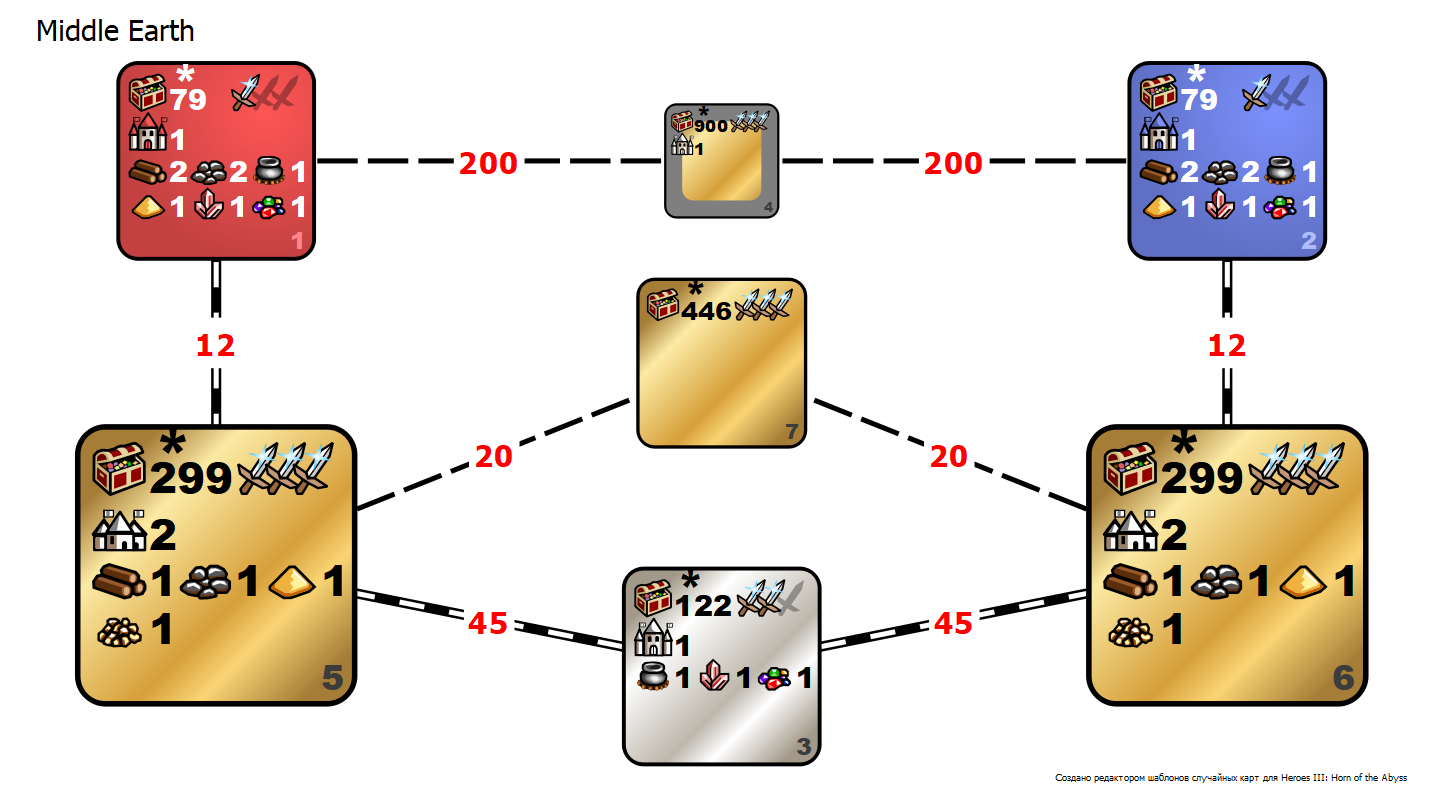
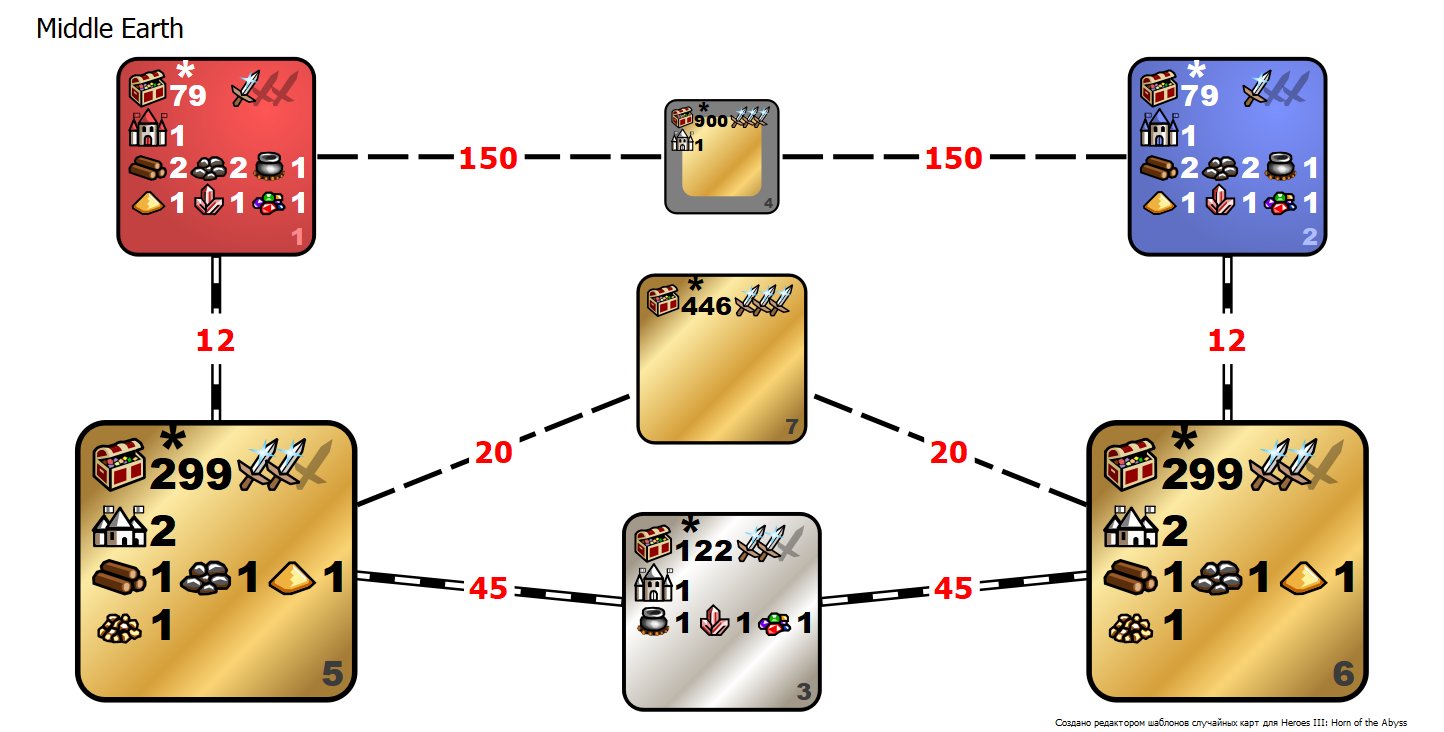
After game changes

Changed region(s): [[0.0312, 0.0, 0.9661, 0.9918], [0.4363, 0.2404, 0.5609, 0.3005], [0.5298, 0.9317, 0.5609, 0.9617]]

diff --git a/README.md b/README.md
@@ -18,8 +18,6 @@ one knows what awaits you on that path, you may need a guide or strong army. Wel
 
 ### Rules
 
-_Rules is under correction now. Coming soon..._
-
 * Initial set up: fast roads, no water, normal monsters, 160%.
 * You have to play with 1 hero which was chosen at the beginning of game. 
 You are defeated if you lose this hero (in any way).  
@@ -51,8 +49,8 @@ and monster buildings of 3 (x4), 4 (x2) and 5 (x1) levels. Seldom you can find h
 objects x3 for each kind of characteristics, and one library.
 * **Player treasure zones (5-red, 6-blue)**. These zones are full of artifacts and boxes of the 
 highest value. Also there are 2 towns (1 of them guaranteed that it has the same type as user home 
-castle). This zone is always covered with sand to make exploration more difficult. In this zone 
-there is not monster buildings at all.
+castle). This zone has wasteland surface to make exploration more difficult but you can find an explorer. 
+In this zone there is not monster buildings at all.
 * **Battlefield zone (3)**. This zone is planned as classical battlefield. There is almost nothing 
 that can distract you from battle with your opponent. One thing that can really impact is that in
 this zone hidden 5 relic artifacts and some black towers. Everything else is just a tower castle 
@@ -77,8 +75,6 @@ _Rules is under correction now. Coming soon..._
 * All magic books
 
 ### Spells
-
-_Rules is under correction now. Coming soon..._
 
 Banned:
 
@@ -105,34 +101,23 @@ Banned:
 
 ### Heroes
 
-_Rules is under correction now. Coming soon..._
-
 Banned:
 
-##### Castle:
 ![Edric](gfx/heroes/Hero_Edric.png) 
 ![Ingham](gfx/heroes/Hero_Ingham.png) 
 ![Sanya](gfx/heroes/Hero_Sanya.png) 
 ![Sorsha](gfx/heroes/Hero_Sorsha.png) 
 ![Sylvia](gfx/heroes/Hero_Sylvia.png) 
-( 
 ![Catherine](gfx/heroes/Hero_Catherine.png) 
 ![Roland](gfx/heroes/Hero_Roland.png) 
 ![Sir Mullich](gfx/heroes/Hero_Sir_Mullich.png) 
-)
-
-##### Rampart:
 ![Aeris](gfx/heroes/Hero_Aeris.png) 
 ![Kyrre](gfx/heroes/Hero_Kyrre.png) 
 ![Ivor](gfx/heroes/Hero_Ivor.png) 
 ![Malcom](gfx/heroes/Hero_Malcom.png) 
 ![Ryland](gfx/heroes/Hero_Ryland.png) 
-( 
 ![Gelu](gfx/heroes/Hero_Gelu.png) 
-![Jiselle](gfx/heroes/Hero_Jiselle.png)
-)
-
-##### Tower:
+![Jiselle](gfx/heroes/Hero_Jiselle.png) 
 ![Astral](gfx/heroes/Hero_Astral.png) 
 ![Cyra](gfx/heroes/Hero_Cyra.png) 
 ![Iona](gfx/heroes/Hero_Iona.png) 
@@ -140,45 +125,29 @@ Banned:
 ![Serena](gfx/heroes/Hero_Serena.png) 
 ![Thane](gfx/heroes/Hero_Thane.png) 
 ![Theodorus](gfx/heroes/Hero_Theodorus.png) 
-( 
 ![Dracon](gfx/heroes/Hero_Dracon.png) 
-)
-
-##### Inferno:
 ![Ash](gfx/heroes/Hero_Ash.png) 
 ![Fiona](gfx/heroes/Hero_Fiona.png) 
 ![Marius](gfx/heroes/Hero_Marius.png) 
 ![Nymus](gfx/heroes/Hero_Nymus.png) 
 ![Xyron](gfx/heroes/Hero_Xyron.png) 
-( 
 ![Xeron](gfx/heroes/Hero_Xeron.png) 
-)
-
-##### Necropolis:
 ![Aislinn](gfx/heroes/Hero_Aislinn.png) 
 ![Charna](gfx/heroes/Hero_Charna.png) 
 ![Moandor](gfx/heroes/Hero_Moandor.png) 
 ![Nimbus](gfx/heroes/Hero_Nimbus.png) 
 ![Thant](gfx/heroes/Hero_Thant.png) 
 ![Vokial](gfx/heroes/Hero_Vokial.png) 
-( 
 ![Lord Haart Lich](gfx/heroes/Hero_Lord_Haart_Death_Knight.png) 
 ![Ranlu](gfx/heroes/Hero_Ranlu.png) 
-)
-
-##### Dungeon:
 ![Ajit](gfx/heroes/Hero_Ajit.png) 
 ![Alamar](gfx/heroes/Hero_Alamar.png) 
 ![Dace](gfx/heroes/Hero_Dace.png) 
 ![Geon](gfx/heroes/Hero_Geon.png) 
 ![Gunnar](gfx/heroes/Hero_Gunnar.png) 
 ![Jeddite](gfx/heroes/Hero_Jeddite.png) 
-( 
 ![Mutare](gfx/heroes/Hero_Mutare.png) 
 ![Mutare Drake](gfx/heroes/Hero_Mutare_Drake.png) 
-)
-
-##### Stronghold:
 ![Dessa](gfx/heroes/Hero_Dessa.png) 
 ![Krellion](gfx/heroes/Hero_Krellion.png) 
 ![Jabarkas](gfx/heroes/Hero_Jabarkas.png) 
@@ -186,22 +155,14 @@ Banned:
 ![Shiva](gfx/heroes/Hero_Shiva.png) 
 ![Terek](gfx/heroes/Hero_Terek.png) 
 ![Vey](gfx/heroes/Hero_Vey.png) 
-( 
 ![Boragus](gfx/heroes/Hero_Boragus.png) 
 ![Kilgor](gfx/heroes/Hero_Kilgor.png) 
-)
-
-##### Fortress:
 ![Alkin](gfx/heroes/Hero_Alkin.png) 
 ![Bron](gfx/heroes/Hero_Bron.png) 
 ![Korbac](gfx/heroes/Hero_Korbac.png) 
 ![Tiva](gfx/heroes/Hero_Tiva.png) 
 ![Voy](gfx/heroes/Hero_Voy.png) 
-( 
 ![Kinkery](gfx/heroes/Hero_Kinkery.png) 
-)
-
-##### Conflux:
 ![Aenain](gfx/heroes/Hero_Aenain.png) 
 ![Brissa](gfx/heroes/Hero_Brissa.jpg) 
 ![Ciele](gfx/heroes/Hero_Ciele.jpg) 
@@ -215,9 +176,7 @@ Banned:
 ![Labetha](gfx/heroes/Hero_Labetha.png) 
 ![Lacus](gfx/heroes/Hero_Lacus.png) 
 ![Luna](gfx/heroes/Hero_Luna.png) 
-![Thunar](gfx/heroes/Hero_Thunar.png), 
-
-##### Bay:
+![Thunar](gfx/heroes/Hero_Thunar.png) 
 ![Anabel](gfx/heroes/Hero_Anabel.png) 
 ![Casmetra](gfx/heroes/Hero_Casmetra.png) 
 ![Elmore](gfx/heroes/Hero_Elmore.png) 
@@ -226,8 +185,6 @@ Banned:
 ![Miriam](gfx/heroes/Hero_Miriam.png) 
 
 ### Skills
-
-_Rules is under correction now. Coming soon..._
 
 Banned:
 
